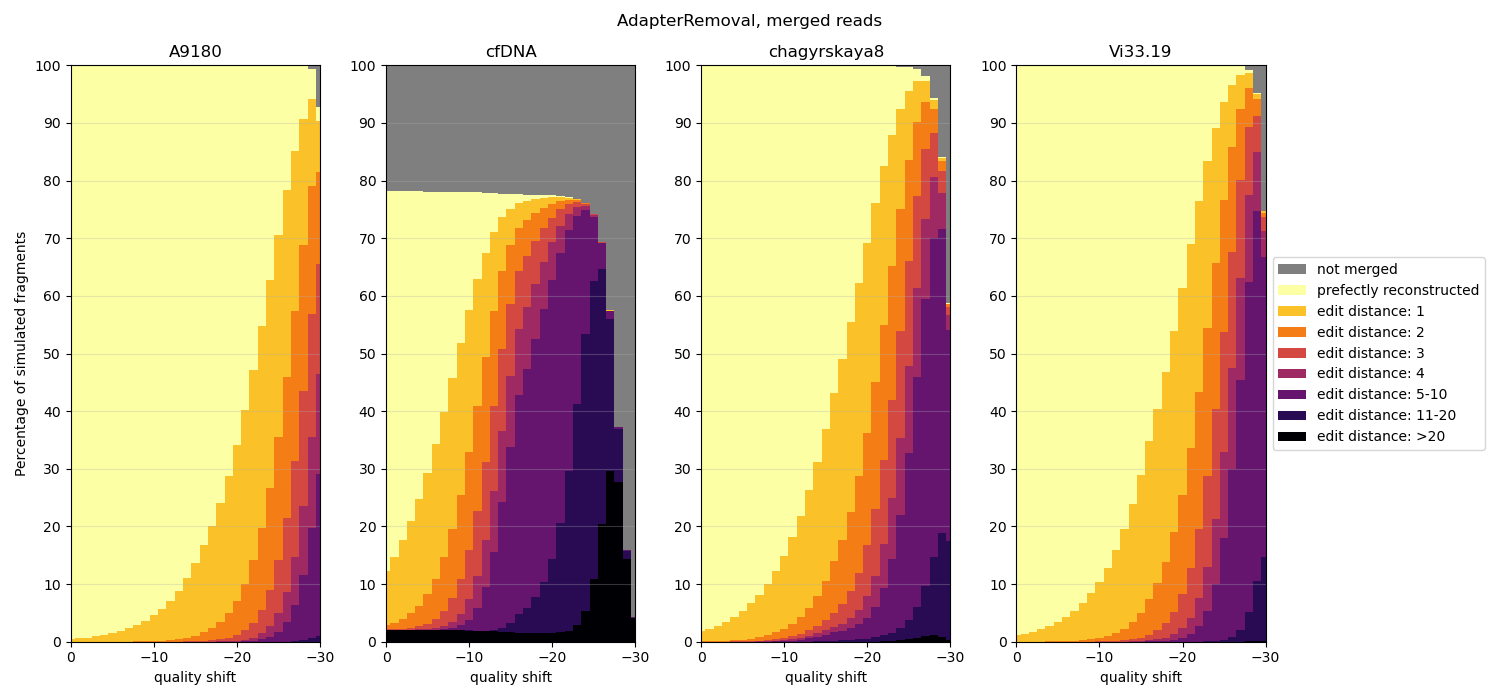
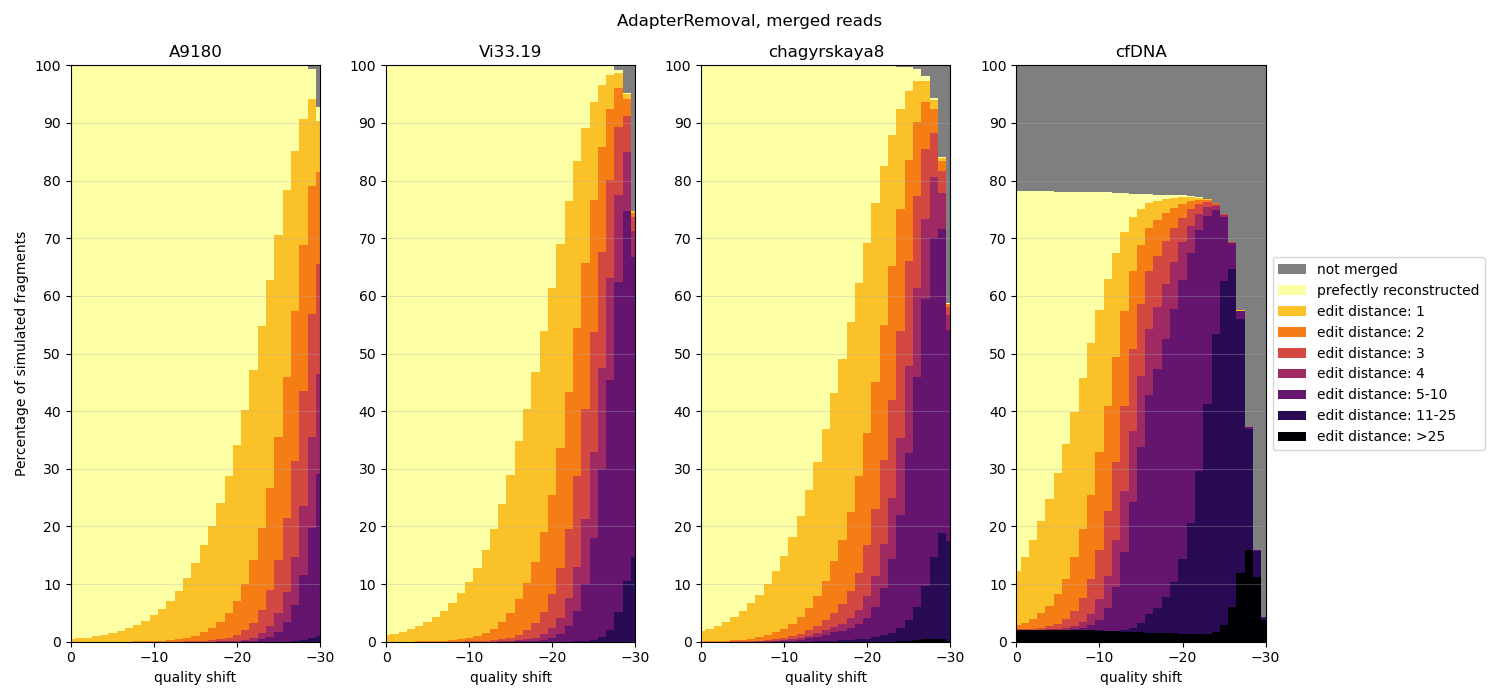
change last color to edit distance >25
change order of fraglen distributions in plots

Changed region(s): [[0.6747, 0.06, 0.8587, 0.93], [0.2453, 0.06, 0.4293, 0.93]]

diff --git a/fraglen_distributions/plot.py b/fraglen_distributions/plot.py
@@ -22,9 +22,7 @@ def parse_arguments():
     return args.infile, args.dist_dir, args.outdir
 
 
-def plot_histogram(dist_dir, outdir):
-    
-    distnames = ["A9180", "cfDNA", "chagyrskaya8", "Vi33.19"]
+def plot_histogram(dist_dir, distnames, outdir):
 
     fig, axes = plt.subplots(1, 4, figsize=[15, 5])
 
@@ -77,7 +75,7 @@ def get_edit_distance_matrix(df):
                     occurences_per_edit_distance[int(edit_dist)] = percent
                 elif edit_dist <= 10:
                     occurences_per_edit_distance[-3] += percent
-                elif edit_dist <= 20:
+                elif edit_dist <= 25:
                     occurences_per_edit_distance[-2] += percent
                 else:
                     occurences_per_edit_distance[-1] += percent
@@ -86,9 +84,9 @@ def get_edit_distance_matrix(df):
     return list(enumerate(zip(*edit_distance_matrix)))
 
 
-def plot_edit_distance(program, df_program, outdir):
+def plot_edit_distance(program, df_program, distnames, outdir):
+    
     fig, axes = plt.subplots(1, 4, figsize=[15, 7]) #, gridspec_kw={'width_ratios': [0.98, 0.02]})
-    distnames = list(df_program["fraglen_distribution"].unique())
     for ax, distname in zip(axes, distnames):
         
         # get data
@@ -104,8 +102,8 @@ def plot_edit_distance(program, df_program, outdir):
             "edit distance: 3",
             "edit distance: 4",
             "edit distance: 5-10",
-            "edit distance: 11-20",
-            "edit distance: >20",
+            "edit distance: 11-25",
+            "edit distance: >25",
             "not merged",
             ]
         colors = [
@@ -164,12 +162,14 @@ def plot_edit_distance(program, df_program, outdir):
 
 def main(infile, dist_dir, outdir):
     
-    plot_histogram(dist_dir, outdir)
+    distnames = ["A9180", "Vi33.19", "chagyrskaya8", "cfDNA"]
+    
+    plot_histogram(dist_dir, distnames, outdir)
     
     df = pd.read_csv(infile)
     for program in list(df["program"].unique()):
         df_program = df[df["program"] == program]
-        plot_edit_distance(program, df_program, outdir)
+        plot_edit_distance(program, df_program, distnames, outdir)
     
             
 if __name__ == "__main__":

diff --git a/fragment_lengths/plot.py b/fragment_lengths/plot.py
@@ -39,7 +39,7 @@ def get_edit_distance_matrix(df_program):
                     occurences_per_edit_distance[int(edit_dist)] = percent
                 elif edit_dist <= 10:
                     occurences_per_edit_distance[-3] += percent
-                elif edit_dist <= 20:
+                elif edit_dist <= 25:
                     occurences_per_edit_distance[-2] += percent
                 else:
                     occurences_per_edit_distance[-1] += percent
@@ -84,8 +84,8 @@ def plot_edit_distance_plot(program, frag_len, dropped_percent, edit_distances,
         "edit distance: 3",
         "edit distance: 4",
         "edit distance: 5-10",
-        "edit distance: 11-20",
-        "edit distance: >20",
+        "edit distance: 11-25",
+        "edit distance: >25",
         "not merged",
         ]
     colors = [
